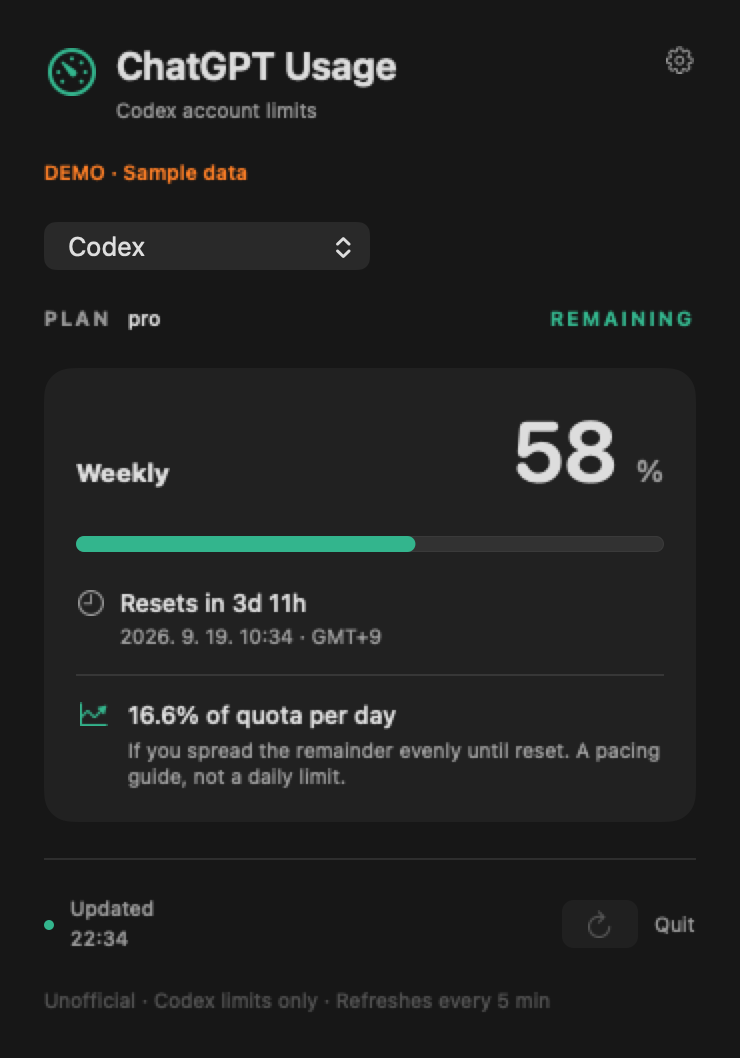
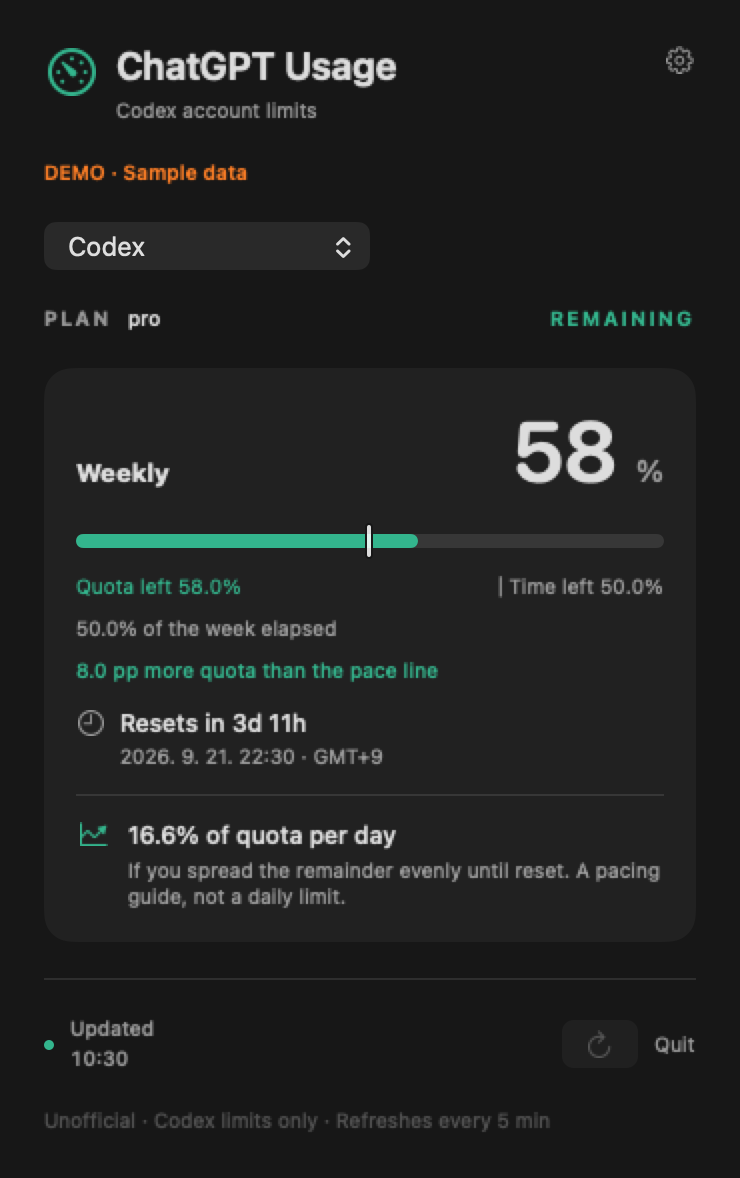
Add time pace marker to remaining quota bar

diff --git a/Sources/ChatGPTUsage/QuotaPaceBar.swift b/Sources/ChatGPTUsage/QuotaPaceBar.swift
@@ -1,0 +1,72 @@
+import SwiftUI
+import UsageCore
+
+struct QuotaPaceBar: View {
+    let remaining: Double
+    let pace: Pace?
+    let weekly: Bool
+    let korean: Bool
+    private let accent = Color(red: 0.23, green: 0.75, blue: 0.62)
+    private func percent(_ value: Double) -> String {
+        value.formatted(.number.precision(.fractionLength(1)))
+    }
+    private var comparison: String {
+        guard let pace else { return "" }
+        let difference = pace.quotaAheadPercentagePoints
+        if abs(difference) < 0.05 {
+            return korean ? "균등 사용 페이스와 같아요" : "On the even-use pace"
+        }
+        let amount = percent(abs(difference))
+        if difference > 0 {
+            return korean ? "균등 페이스보다 \(amount)%p 여유" : "\(amount) pp more quota than the pace line"
+        }
+        return korean ? "균등 페이스보다 \(amount)%p 더 사용" : "\(amount) pp less quota than the pace line"
+    }
+    var body: some View {
+        VStack(alignment: .leading, spacing: 8) {
+            GeometryReader { geometry in
+                ZStack(alignment: .leading) {
+                    Capsule().fill(.quaternary)
+                        .frame(height: 7)
+                    Capsule().fill(remaining <= 10 ? Color.orange : accent)
+                        .frame(width: geometry.size.width * remaining / 100, height: 7)
+                    if let pace {
+                        // Both fill and marker count down from 100 to 0.
+                        RoundedRectangle(cornerRadius: 1.5)
+                            .fill(Color.primary)
+                            .frame(width: 3, height: 17)
+                            .overlay(RoundedRectangle(cornerRadius: 1.5).stroke(Color(nsColor: .windowBackgroundColor), lineWidth: 1))
+                            .offset(x: max(0, min(geometry.size.width - 3,
+                                                 geometry.size.width * pace.remainingTimePercent / 100 - 1.5)))
+                    }
+                }.frame(height: 17)
+            }.frame(height: 17)
+            if let pace {
+                HStack {
+                    Text(korean ? "한도 \(percent(remaining))% 남음" : "Quota left \(percent(remaining))%")
+                        .foregroundStyle(accent)
+                    Spacer(minLength: 4)
+                    Text(korean ? "│ 시간 \(percent(pace.remainingTimePercent))% 남음" : "│ Time left \(percent(pace.remainingTimePercent))%")
+                        .foregroundStyle(.secondary)
+                }.font(.system(size: 10)).monospacedDigit()
+                Text(korean
+                     ? "\(weekly ? "주간" : "기간") 시간 \(percent(pace.elapsedPercent))% 경과"
+                     : "\(percent(pace.elapsedPercent))% of the \(weekly ? "week" : "window") elapsed")
+                    .font(.caption).foregroundStyle(.secondary)
+                Text(comparison)
+                    .font(.caption.weight(.medium))
+                    .foregroundStyle(pace.quotaAheadPercentagePoints < -0.05 ? Color.orange : accent)
+                    .fixedSize(horizontal: false, vertical: true)
+            }
+        }
+        .accessibilityElement(children: .ignore)
+        .accessibilityLabel(korean ? "남은 한도와 시간 페이스" : "Remaining quota and time pace")
+        .accessibilityValue(pace.map {
+            korean
+                ? "한도 \(percent(remaining))% 남음, 시간 \(percent($0.elapsedPercent))% 경과, \(percent($0.remainingTimePercent))% 남음. \(comparison)"
+                : "Quota \(percent(remaining))% remaining, time \(percent($0.elapsedPercent))% elapsed, \(percent($0.remainingTimePercent))% remaining. \(comparison)"
+        } ?? (korean ? "한도 \(percent(remaining))% 남음" : "Quota \(percent(remaining))% remaining"))
+        .help(korean ? "세로선은 남은 시간 비율입니다. 한도 막대가 선보다 길면 균등 사용 기준보다 여유가 있습니다. 참고 기준이며 실제 일일 한도는 아닙니다."
+              : "The vertical line marks time remaining. A longer quota bar means you are spending more slowly than an even-use pace. A reference, not an official daily limit.")
+    }
+}

diff --git a/Sources/ChatGPTUsage/App.swift b/Sources/ChatGPTUsage/App.swift
@@ -202,9 +202,10 @@ struct UsagePanel: View {
                 if window.remaining != nil { Text("%").font(.title3).foregroundStyle(.secondary) }
             }
             if let remaining = window.remaining {
-                ProgressView(value: remaining, total: 100).tint(remaining <= 10 ? .orange : accent)
-                    .accessibilityLabel(store.t("Remaining quota", "남은 한도"))
-                    .accessibilityValue("\(Int(remaining))%")
+                QuotaPaceBar(remaining: remaining,
+                             pace: store.stale(at: now) ? nil : window.pace(at: now),
+                             weekly: window.windowDurationMins == 10080,
+                             korean: store.language == "ko")
             }
             if let resetDate = window.resetDate {
                 HStack(alignment: .top, spacing: 7) {
@@ -249,7 +250,7 @@ struct UsagePanel: View {
                 Button("GitHub") { openURL("https://github.com/Sunjae-L22/chatgpt-usage") }
                 Button(store.t("Usage dashboard", "사용량 페이지")) { openURL("https://chatgpt.com/codex/settings/usage") }
             }
-            Text(store.t("v0.1.1 · No app telemetry. Codex handles sign-in and the network request. Plan names are displayed as reported.", "v0.1.1 · 앱 자체 분석 수집 없음. 인증과 조회 요청은 Codex가 처리합니다. 요금제명은 서버 값 그대로 표시합니다.")).font(.caption2).foregroundStyle(.secondary)
+            Text(store.t("v0.2.0 · No app telemetry. Codex handles sign-in and the network request. Plan names are displayed as reported.", "v0.2.0 · 앱 자체 분석 수집 없음. 인증과 조회 요청은 Codex가 처리합니다. 요금제명은 서버 값 그대로 표시합니다.")).font(.caption2).foregroundStyle(.secondary)
         }.padding(12).background(.quaternary.opacity(0.4), in: RoundedRectangle(cornerRadius: 10))
     }
     private func openURL(_ value: String) { if let url = URL(string: value) { NSWorkspace.shared.open(url) } }

diff --git a/Tests/PopupVerifier/PopupVerifier.swift b/Tests/PopupVerifier/PopupVerifier.swift
@@ -21,20 +21,20 @@ import UsageCore
         }
 
         let store = UsageStore(demo: true)
-        let controller = NSHostingController(rootView: UsagePopover(store: store, maximumHeight: 600))
+        let controller = NSHostingController(rootView: UsagePopover(store: store, maximumHeight: 700))
         check(controller.sizeThatFits(in: NSSize(width: 370, height: 0)).height >= 300,
               "A zero-height host proposal cannot collapse the menu content")
-        let host = NSHostingView(rootView: UsagePopover(store: store, maximumHeight: 600))
+        let host = NSHostingView(rootView: UsagePopover(store: store, maximumHeight: 700))
         check(host.fittingSize.width == 370 && host.fittingSize.height >= 300,
               "Menu content has a usable size before its first layout")
         let compact = settle(host)
         let panel = NSHostingView(rootView: UsagePanel(store: store))
-        check(abs(compact.height - min(600, panel.fittingSize.height)) <= 1,
+        check(abs(compact.height - min(700, panel.fittingSize.height)) <= 1,
               "Popover fits the measured weekly content")
 
         store.showSettings = true
         let expanded = settle(host)
-        check(expanded.height > compact.height && expanded.height <= 600,
+        check(expanded.height > compact.height && expanded.height <= 700,
               "Settings expand the popover without exceeding its height limit")
         store.showSettings = false
         check(abs(settle(host).height - compact.height) <= 1,
@@ -55,7 +55,7 @@ import UsageCore
         store.showSettings = false
         store.error = "A connection error with enough text to wrap onto more than one line."
         let disconnected = settle(host)
-        check(disconnected.height > 200 && disconnected.height <= 600,
+        check(disconnected.height > 200 && disconnected.height <= 700,
               "The disconnected state remains visible")
         store.error = nil
         store.isLoading = true

diff --git a/Tests/UsageVerifier/main.swift b/Tests/UsageVerifier/main.swift
@@ -34,6 +34,16 @@ check(abs(pace.elapsedPercent - 50) < 0.001, "Pacing uses actual window length a
 check(abs(pace.percentagePointsPerDay - 51/3.5) < 0.001, "Daily reference divides remaining quota by remaining days")
 check(window.pace(at: Date(timeIntervalSince1970: 2000604800)) == nil, "Expired reset does not fabricate new quota")
 check(window.pace(at: Date(timeIntervalSince1970: 1999999999)) == nil, "Inconsistent future window does not produce pacing")
+check(abs(pace.remainingTimePercent - 50) < 0.001, "Half a window places time marker at 50 percent")
+check(abs(pace.quotaAheadPercentagePoints - 1) < 0.001, "Remaining quota 51 versus time 50 means 1 point spare")
+let late = window.pace(at: Date(timeIntervalSince1970: 2000453600))!
+check(abs(late.remainingTimePercent - 25) < 0.001, "Three quarters elapsed leaves a 25 percent time marker")
+var fastWindow = window
+fastWindow.usedPercent = 80
+check(abs(fastWindow.pace(at: half)!.quotaAheadPercentagePoints + 30) < 0.001, "Fast spending is shown as a negative quota balance")
+let start = window.pace(at: Date(timeIntervalSince1970: 2000000000))!
+check(abs(start.remainingTimePercent - 100) < 0.001, "Time marker begins at the full window boundary")
+check(missing.pace(at: half) == nil, "Missing time data has no pace marker")
 let duplicate = try decode("{\"rateLimits\":{\"primary\":\(weekly),\"secondary\":\(weekly)}}")
 check(duplicate.buckets[0].bucket.windows.count == 1, "Duplicate windows are not shown twice")
 check(CodexClient.discover(override: "/not/a/codex") == nil, "Invalid explicit binary does not silently use another account source")

diff --git a/Sources/UsageCore/CodexClient.swift b/Sources/UsageCore/CodexClient.swift
@@ -50,7 +50,7 @@ public struct CodexClient: Sendable {
             catch { throw UsageError.disconnected }
         }
         try send(["id": 0, "method": "initialize", "params": ["clientInfo": [
-            "name": "chatgpt_usage", "title": "ChatGPT Usage", "version": "0.1.1"
+            "name": "chatgpt_usage", "title": "ChatGPT Usage", "version": "0.2.0"
         ]]])
         let fd = output.fileHandleForReading.fileDescriptor
         _ = fcntl(fd, F_SETFL, O_NONBLOCK)

diff --git a/Sources/UsageCore/Usage.swift b/Sources/UsageCore/Usage.swift
@@ -30,6 +30,9 @@ public struct LimitWindow: Codable, Equatable, Sendable {
 
 public struct Pace: Equatable, Sendable {
     public let elapsedPercent: Double
+    public var remainingTimePercent: Double { 100 - elapsedPercent }
+    // Positive means quota remaining exceeds time remaining (slower spending).
+    public var quotaAheadPercentagePoints: Double { -usedMinusElapsed }
     public let usedMinusElapsed: Double
     public let percentagePointsPerDay: Double
 }

diff --git a/README.md b/README.md
@@ -10,7 +10,7 @@ ChatGPT Usage is a small, unofficial native macOS app for **Codex subscription l
 
 It does **not** measure ordinary ChatGPT conversation message caps or OpenAI API spending. An account's reported quota percentage is not a remaining message or token count.
 
-<img src="docs/images/usage-demo-en.png" width="370" alt="Demo with sample data: weekly quota, reset countdown, and a daily pacing reference">
+<img src="docs/images/usage-demo-en.png" width="370" alt="Demo with sample data: weekly quota with a time pace marker, elapsed time, and reset countdown">
 
 *The screenshot uses clearly labeled sample data. No personal account details are published.*
 
@@ -25,6 +25,14 @@ It does **not** measure ordinary ChatGPT conversation message caps or OpenAI API
 - Marks failed or old readings as stale. Crossing a reset time never silently creates a new 100% allowance.
 - English and Korean interface; optional launch at login.
 
+## The pace line
+
+The quota bar and vertical time marker both count down from 100% to 0%. The bar shows quota remaining; the marker shows the fraction of the reported window still left before reset. Underneath, the panel shows elapsed and remaining time as percentages.
+
+If the quota bar extends past the marker, you have more quota left than an even-use pace would leave. If it falls short, you have used it faster. For example, 22% quota remaining and 21% time remaining means 1 percentage point of spare quota relative to that pace.
+
+This reference uses the account's reported duration and reset time, including non-weekly windows. It is not a forecast or an official daily allowance. Stale readings, missing timing, and expired or inconsistent windows hide the marker and comparison.
+
 ## Setup
 
 1. Install [Codex](https://developers.openai.com/codex/cli/) or the Mac desktop app that includes the Codex executable.
@@ -32,7 +40,7 @@ It does **not** measure ordinary ChatGPT conversation message caps or OpenAI API
 3. Download and unzip the Apple Silicon app from [Releases](https://github.com/Sunjae-L22/chatgpt-usage/releases), move it to a permanent folder such as Applications, and open it.
 4. Look for `C …%` in the menu bar. Click it to see quota details. If Codex is not detected, use **Settings → Choose Codex…**.
 
-**v0.1.1 is an experimental, ad-hoc-signed build. It is not Apple-notarized.** macOS may block a downloaded binary. Review the source or build locally if you prefer; this project does not ask you to disable Gatekeeper. The downloadable build is Apple Silicon only. The deployment target is macOS 14; see [verification](docs/VERIFICATION.md) for the actually tested environment.
+**v0.2.0 is an experimental, ad-hoc-signed build. It is not Apple-notarized.** macOS may block a downloaded binary. Review the source or build locally if you prefer; this project does not ask you to disable Gatekeeper. The downloadable build is Apple Silicon only. The deployment target is macOS 14; see [verification](docs/VERIFICATION.md) for the actually tested environment.
 
 The app finds Codex in common desktop-app, Homebrew, user-local, and `PATH` locations. `CODEX_BINARY_PATH` is also supported for command-line use. A path selected in Settings takes precedence. This app does not bundle Codex.
 
@@ -86,7 +94,7 @@ The motivation came from using [Claude Usage Tracker](https://github.com/hamed-e
 
 - Plan names are displayed as reported. An internal identifier such as `prolite` is not converted into an assumed retail plan name.
 - The upstream protocol and account limits can change. Missing fields remain unknown.
-- No automatic app updater, threshold notifications, account switching, or persistent history in v0.1.1.
+- No automatic app updater, threshold notifications, account switching, or persistent history in v0.2.0.
 - Launch-at-login requires a permanent app location and may require approval in macOS settings.
 
 Feedback is welcome, especially on different account window shapes, accessibility, and macOS compatibility. See [CONTRIBUTING](CONTRIBUTING.md), [SECURITY](SECURITY.md), and [verification](docs/VERIFICATION.md). Never include tokens or personal account responses in an issue.

diff --git a/README.ko.md b/README.ko.md
@@ -10,7 +10,7 @@ ChatGPT 계정에 연결된 **Codex 구독 한도**를 보여주는 비공식 ma
 
 일반 ChatGPT 대화의 모델별 메시지 한도나 OpenAI API 비용을 측정하는 앱은 아니다. 한도 비율을 남은 메시지 수나 토큰 수로 바꾸지 않는다.
 
-<img src="docs/images/usage-demo-ko.png" width="370" alt="예시 데이터로 표시한 주간 남은 한도, 초기화 시간, 일일 균등 배분 참고값">
+<img src="docs/images/usage-demo-ko.png" width="370" alt="예시 데이터로 표시한 주간 남은 한도, 시간 페이스 기준선, 경과 시간과 초기화 시간">
 
 *공개 화면은 데모 데이터다. 개인 계정 정보는 포함하지 않았다.*
 
@@ -24,6 +24,14 @@ ChatGPT 계정에 연결된 **Codex 구독 한도**를 보여주는 비공식 ma
 - 조회 실패·오래된 값·초기화 시각 경과 상태 구분.
 - 한국어·영어, 로그인 시 실행 옵션.
 
+## 페이스메이커 읽는 법
+
+한도 막대와 세로 기준선은 모두 100%에서 0%로 줄어든다. 막대는 **남은 한도**, 세로선은 **초기화까지 남은 시간의 비율**이다. 아래에는 경과 시간과 남은 시간 비율을 함께 표시한다.
+
+막대가 선보다 길면 균등하게 사용하는 페이스보다 여유가 있고, 짧으면 더 빠르게 사용한 상태다. 예를 들어 한도 22%, 시간 21%가 남았다면 균등 페이스보다 1%p 여유가 있다.
+
+서버가 보고한 기간과 초기화 시각으로 계산하며, 주간 외의 기간에도 적용한다. 실제 일일 한도나 예측값은 아니다. 오래된 조회값, 시간 정보 누락, 만료되거나 모순된 기간에는 기준선과 비교를 표시하지 않는다.
+
 ## 설치
 
 1. [Codex](https://developers.openai.com/codex/cli/) 또는 Codex 실행 파일을 포함한 Mac 데스크톱 앱을 설치한다.
@@ -31,7 +39,7 @@ ChatGPT 계정에 연결된 **Codex 구독 한도**를 보여주는 비공식 ma
 3. [Releases](https://github.com/Sunjae-L22/chatgpt-usage/releases)에서 Apple Silicon용 ZIP을 받아 압축을 풀고 고정된 폴더에 앱을 둔다.
 4. 앱 실행 후 메뉴 막대의 `C …%`를 누른다. 자동 검색이 실패하면 설정에서 `codex` 실행 파일을 선택한다.
 
-v0.1.1은 실험용 버전이며 Apple 공증을 받지 않은 임시 서명 앱이다. 다운로드한 바이너리가 macOS에서 차단될 수 있다. 소스를 확인하고 직접 빌드하는 방법도 제공한다. 보안 기능을 끄도록 요구하지 않는다. 배포 파일은 Apple Silicon용이며, macOS 14를 최소 대상으로 빌드한다. 실제 검증 환경은 [검증 기록](docs/VERIFICATION.md)에 구분했다.
+v0.2.0은 실험용 버전이며 Apple 공증을 받지 않은 임시 서명 앱이다. 다운로드한 바이너리가 macOS에서 차단될 수 있다. 소스를 확인하고 직접 빌드하는 방법도 제공한다. 보안 기능을 끄도록 요구하지 않는다. 배포 파일은 Apple Silicon용이며, macOS 14를 최소 대상으로 빌드한다. 실제 검증 환경은 [검증 기록](docs/VERIFICATION.md)에 구분했다.
 
 ```sh
 git clone https://github.com/Sunjae-L22/chatgpt-usage.git

diff --git a/docs/VERIFICATION.md b/docs/VERIFICATION.md
@@ -13,7 +13,7 @@ The repository's [initial GitHub Actions run](https://github.com/Sunjae-L22/chat
 
 ## Automated checks
 
-`make test` runs 20 core/protocol assertions and 9 native SwiftUI popup layout assertions. Core/protocol coverage includes:
+`make test` runs 26 core/protocol assertions and 9 native SwiftUI popup layout assertions. Core/protocol coverage includes:
 
 - Weekly in `primary`, with `secondary: null`.
 - Five-hour and weekly windows together, identified by actual duration.
@@ -43,6 +43,12 @@ Public images are generated from sample data, not real account payloads.
 The v0.1.0 visual checks covered a separate dashboard window and rendered panel images. They missed the actual menu popup: its `ScrollView` had only a maximum height, so the menu host could measure it at zero height and display a thin strip.
 
 The menu now starts with an explicit usable height, measures its content, and caps the viewport to the display's available height. Longer content remains scrollable. The user opened the repaired menu-bar popup and confirmed that it displayed normally. The actual popup was then inspected through native accessibility and a screenshot: quota, reset time, and footer were visible; the expanded settings state was also observed in the accessibility tree. These checks are separate from the automated hosting-view layout assertions.
+
+## v0.2.0 time pace marker
+
+On 2026-09-18, all 26 core/protocol assertions and 9 popup layout assertions passed locally. New coverage checks half-window and three-quarter-window positions, positive and negative quota-versus-time balance, the start boundary, and missing timing. Existing checks cover expired and inconsistent windows.
+
+Korean and English sample-data panels were rendered and visually inspected: the bar, time marker, elapsed/remaining labels, pace comparison, reset information, and footer fit without clipping. These rendered panels and the automated popup checks do not constitute a new manual menu-click test; the user confirmation above applies to v0.1.1.
 
 ## Not yet verified
 

diff --git a/CHANGELOG.md b/CHANGELOG.md
@@ -1,5 +1,12 @@
 # Changelog
 
+## 0.2.0 — 2026-09-18
+
+- Add a time-remaining marker to the quota bar, with elapsed and remaining window percentages.
+- Compare remaining quota with an even-use pace in percentage points.
+- Hide the pace marker for stale readings and missing, expired, or inconsistent timing.
+- Add six arithmetic checks and refresh Korean/English sample screenshots.
+
 ## 0.1.1 — 2026-09-16
 
 - Fix the menu-bar popup appearing as a thin horizontal strip. The popup now has an explicit initial height, then fits its content and scrolls when needed.
